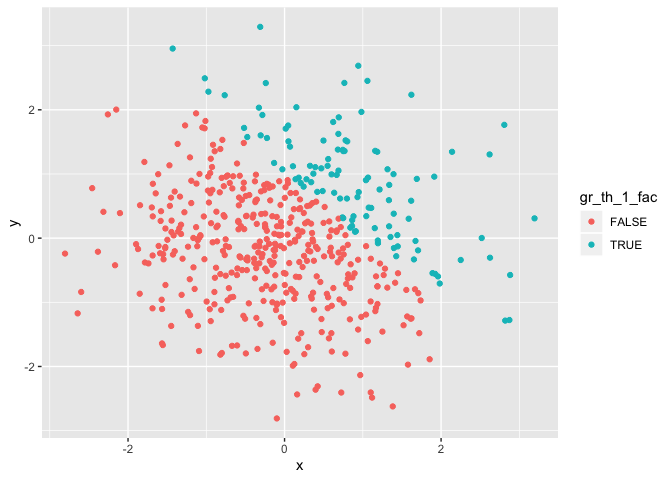
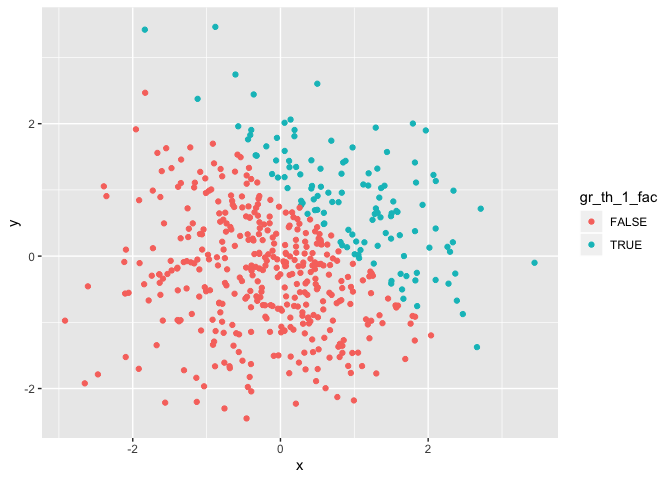
Add some code

diff --git a/p8105-hw1_al3998.md b/p8105-hw1_al3998.md
@@ -32,6 +32,16 @@ pr_df=tibble(
 )
 ```
 
+\#Take the mean The variable ra\_sample has a mean of 0.3210358,and the
+variable gr\_th\_0 has a mean of 0.625. The mean of variable `var_char`
+is NA,the mean of variable `var_fac` is NA
+
+``` r
+as.numeric(pull(pr_df,gr_th_0))
+as.numeric(pull(pr_df,var_char))
+as.numeric(pull(pr_df,var_fac))
+```
+
 Here is the second chunk in problem
 1.
 
@@ -41,8 +51,8 @@ gr_th_0_num = as.numeric(pull(pr_df,gr_th_0))
 (gr_th_0_num)*(pull(pr_df,ra_sample))
 ```
 
-    ## [1] 0.0000000 0.4375470 1.0122700 0.9737998 0.0000000 0.4332450 0.7619209
-    ## [8] 0.0000000
+    ## [1] 0.000000000 0.001320336 0.401702894 1.214948273 0.000000000 0.722778602
+    ## [7] 0.000000000 0.516524063
 
 ``` r
 #convert the logical vector to a factor, and multiply the random sample by the result#
@@ -61,8 +71,8 @@ gr_th_0_facnum = as.numeric(gr_th_0_fac)
 (gr_th_0_facnum)*(pull(pr_df,ra_sample))
 ```
 
-    ## [1] -0.8685805  0.8750940  2.0245399  1.9475995 -0.5503998  0.8664900
-    ## [7]  1.5238419 -1.4102518
+    ## [1] -0.091640917  0.002640671  0.803405788  2.429896546 -0.058960112
+    ## [6]  1.445557205 -0.138387061  1.033048125
 
 # Problem 2
 
@@ -81,11 +91,11 @@ pr2_df=tibble(
 The size of the data set can be described through the row and column of
 it.The column of the data set is 5 and the row of the data set is 500.
 
-The mean of x can be described as -0.0347499. The median of x can be
-described as -0.0572553. The standard deviation of x can be described as
-1.016899.
+The mean of x can be described as 0.05202. The median of x can be
+described as 0.0733167. The standard deviation of x can be described as
+1.0383948.
 
-The proportion of cases for which x+y\>1 can be described as 0.216.
+The proportion of cases for which x+y\>1 can be described as 0.24.
 
 ### The scatterplot of y vs x
 
